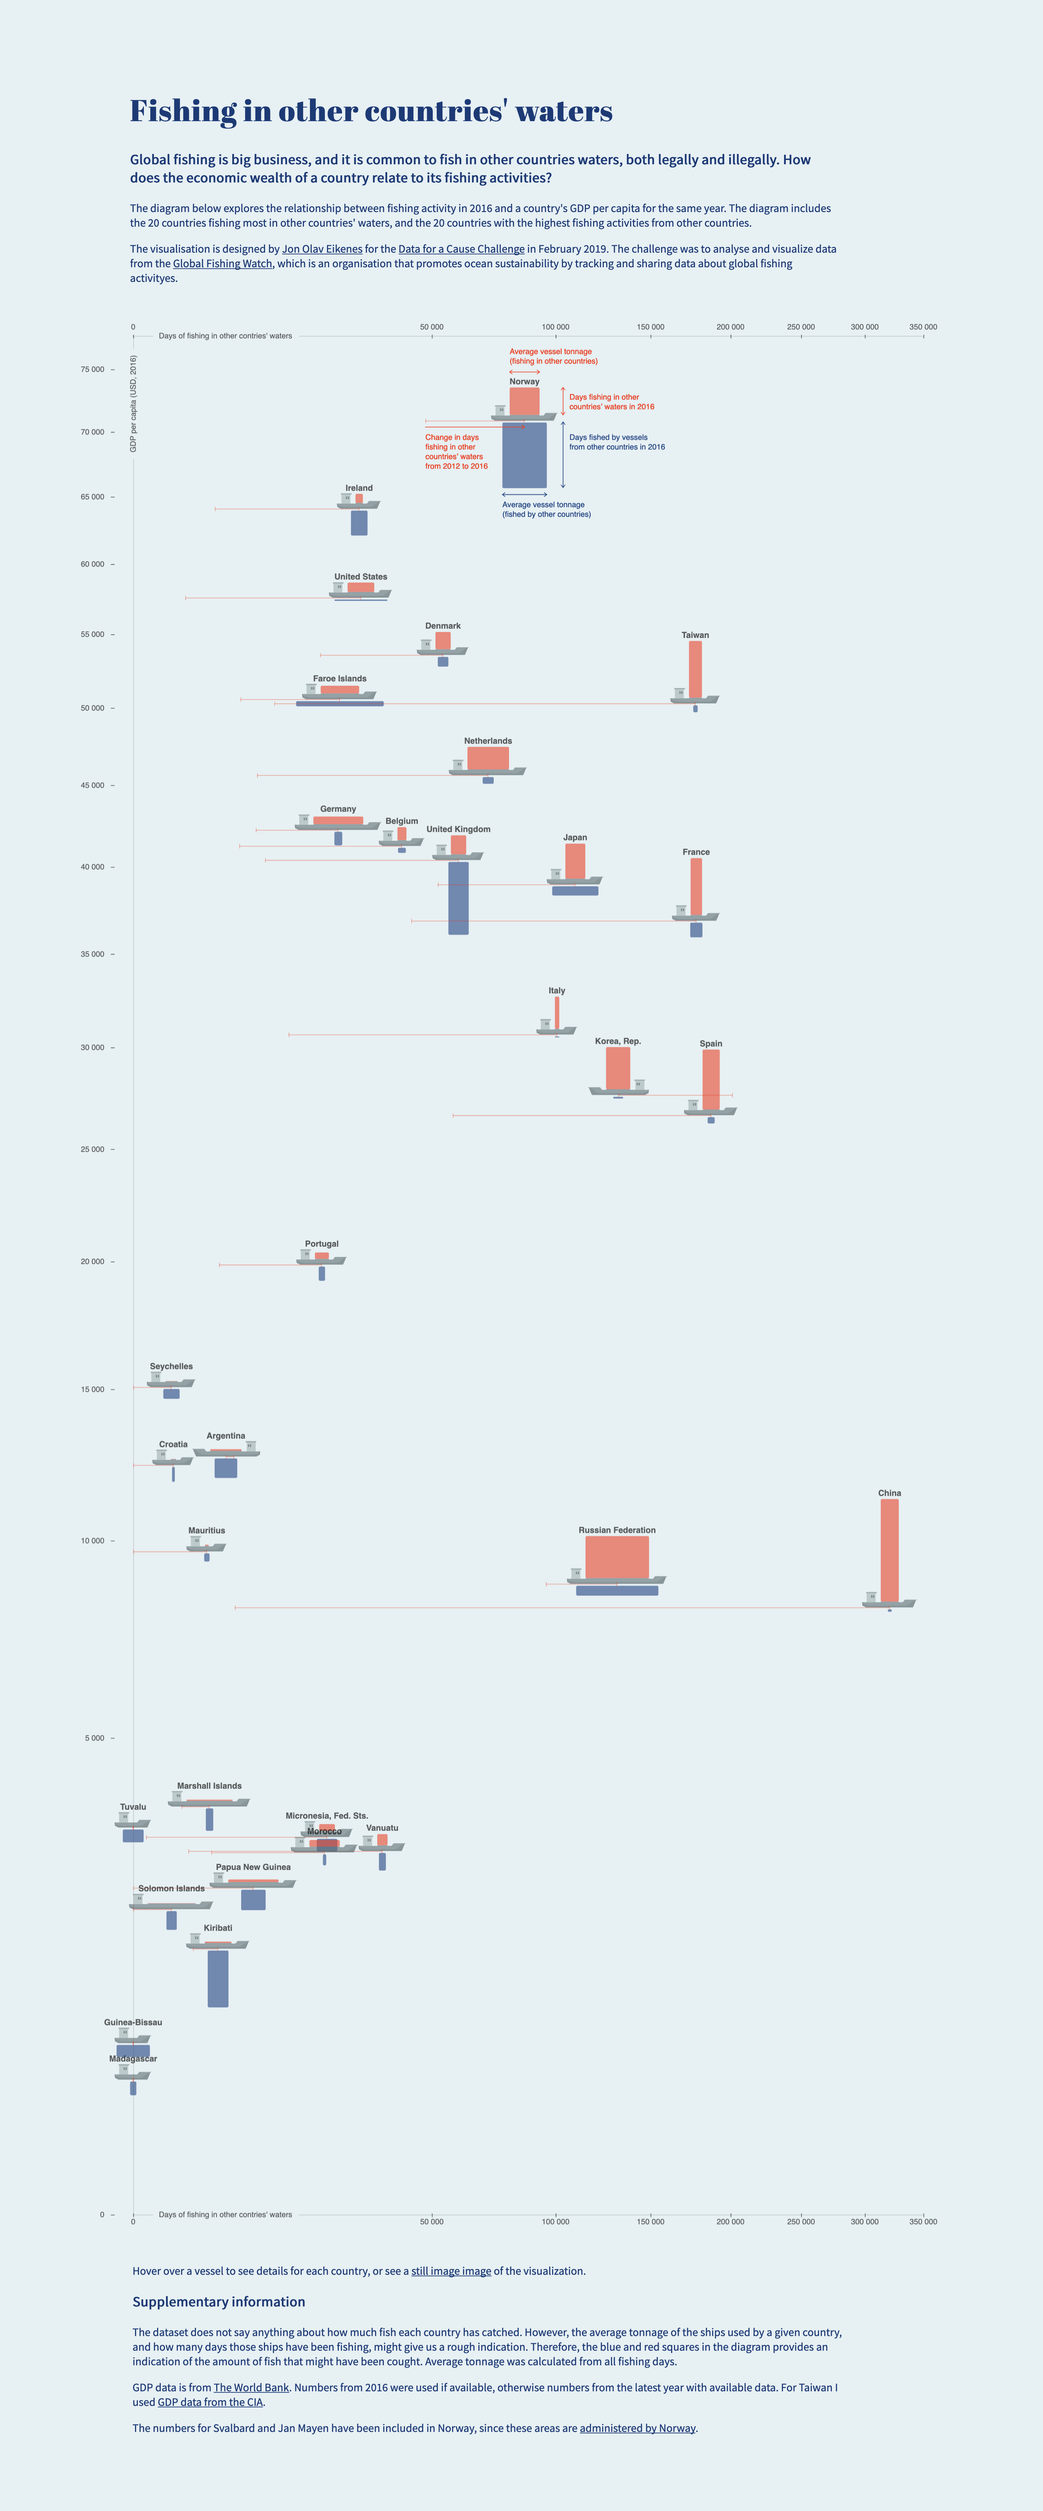
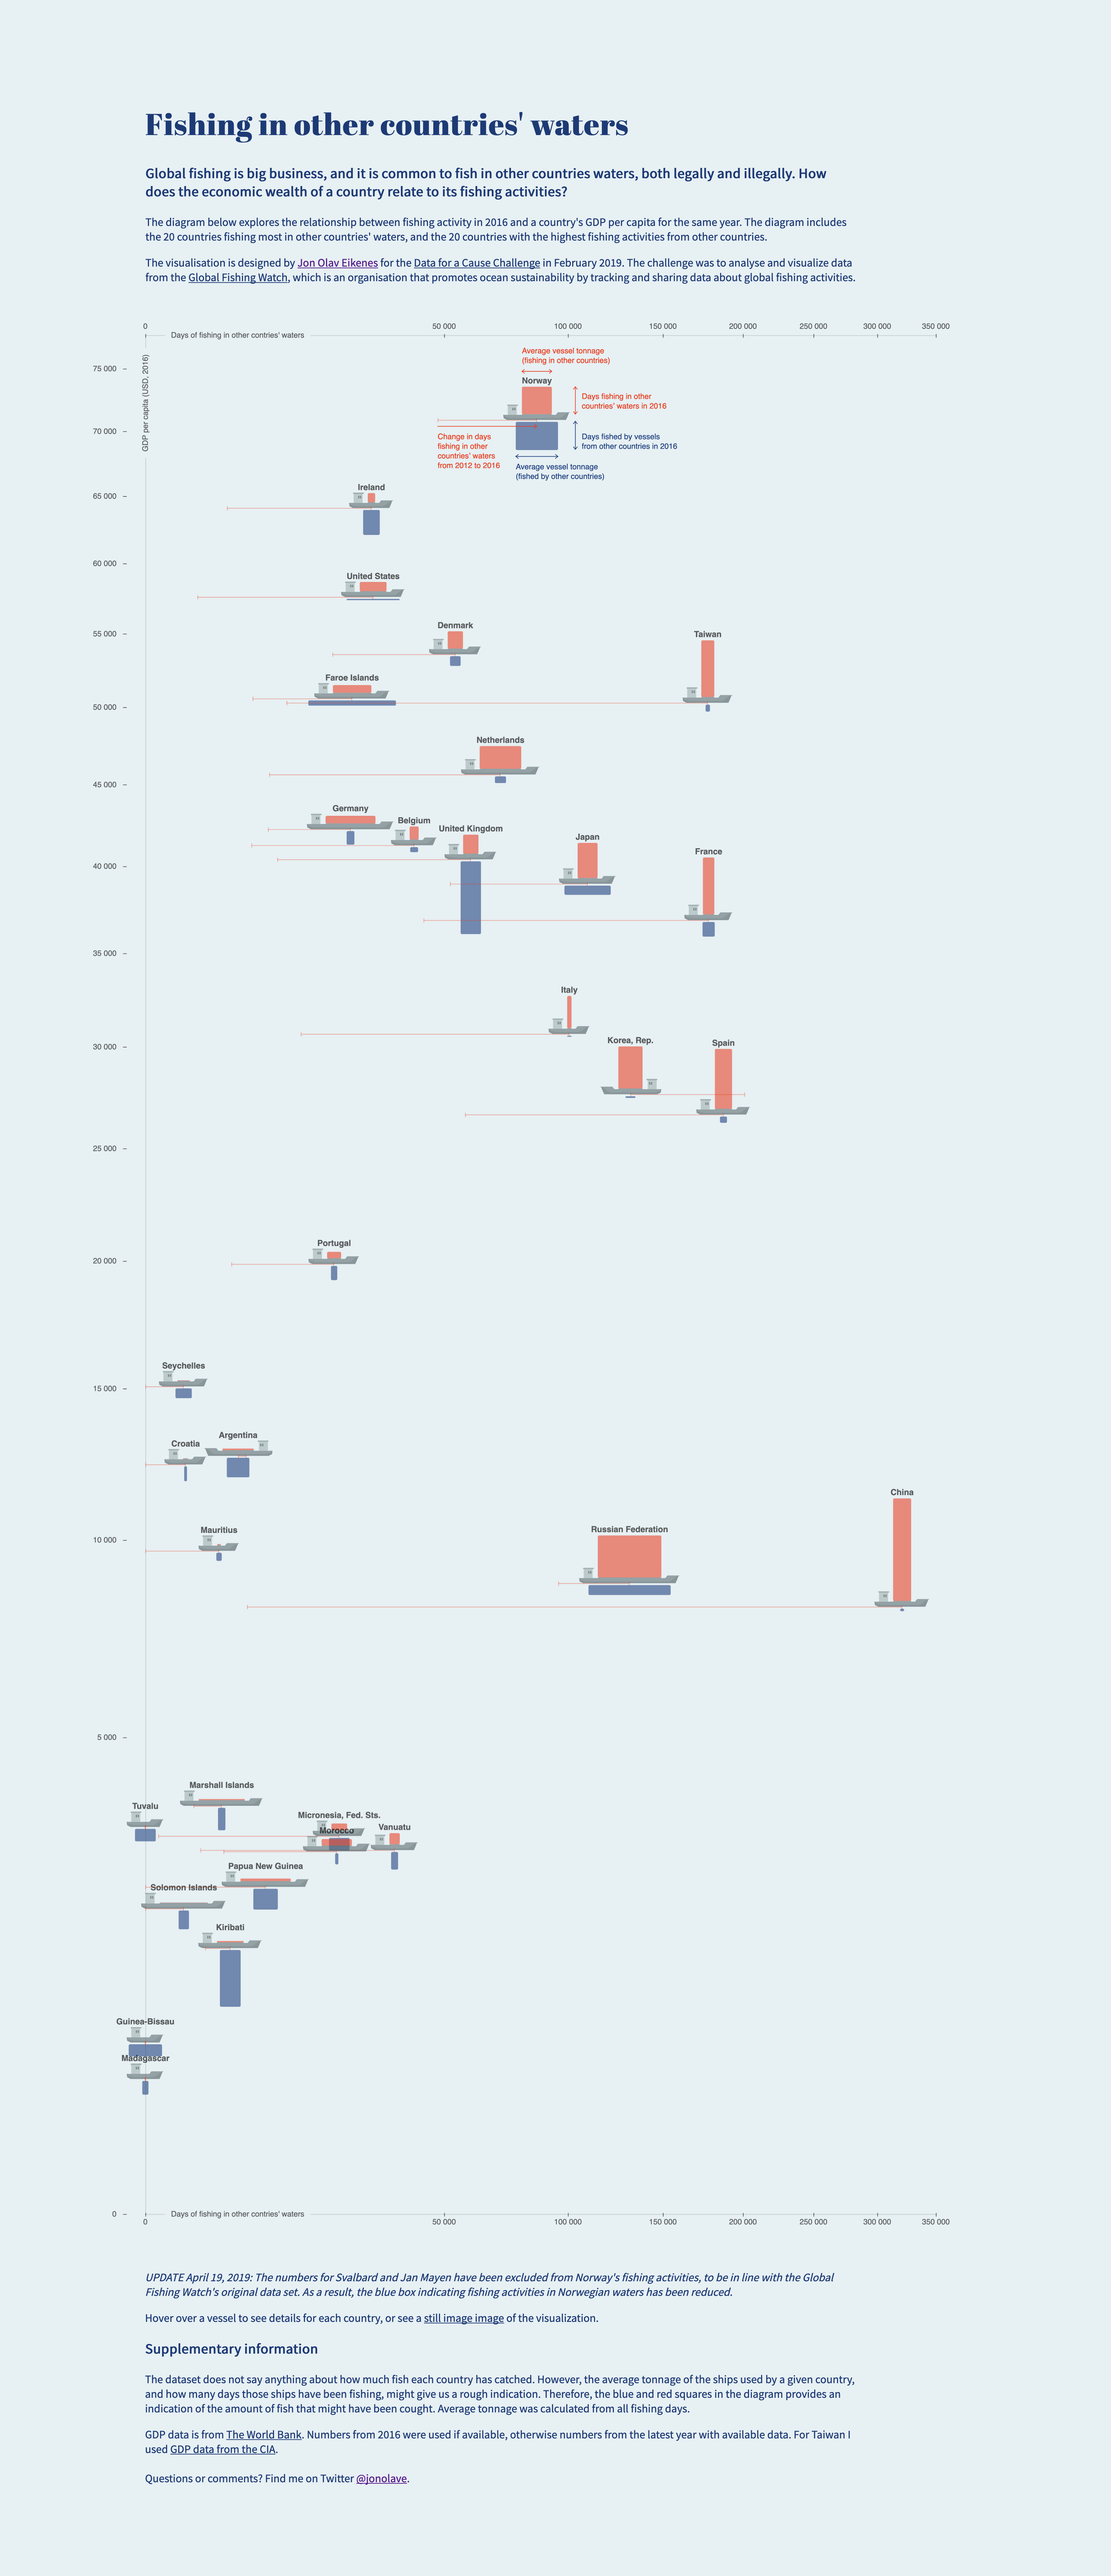
New image file and adjust Readme

diff --git a/index.html b/index.html
@@ -98,7 +98,6 @@
                 <p class="ingress">Supplementary information</p>
                 <p>The dataset does not say anything about how much fish each country has catched. However, the average tonnage of the ships used by a given country, and how many days those ships have been fishing, might give us a rough indication. Therefore, the blue and red squares in the diagram provides an indication of the amount of fish that might have been cought. Average tonnage was calculated from all fishing days.</p>
                 <p>GDP data is from <a href="https://data.worldbank.org/indicator/ny.gdp.pcap.cd">The World Bank</a>. Numbers from 2016 were used if available, otherwise numbers from the latest year with available data. For Taiwan I used <a href="https://www.cia.gov/library/publications/the-world-factbook/rankorder/2004rank.html">GDP data from the CIA</a>.</p>
-                <p>The numbers for Svalbard and Jan Mayen have been included in Norway, since these areas are <a href="https://en.wikipedia.org/wiki/Svalbard">administered by Norway</a>.</p>
                 <p>Questions or comments? Find me on Twitter <a href="https://twitter.com/jonolave">@jonolave</a>.</p>
             </div>
         </div>

diff --git a/README.md b/README.md
@@ -2,4 +2,7 @@
 
 https://jonolave.github.io/global-fishing/
 
+**UPDATE April 19, 2019** 
+The numbers for Svalbard and Jan Mayen have been excluded from Norway's fishing activities, to be in line with the Global Fishing Watch's original data set. As a result, the blue box indicating fishing activities in Norwegian waters has been reduced.            
+
 ![Global fishing visualisation](global-fishing.png)
